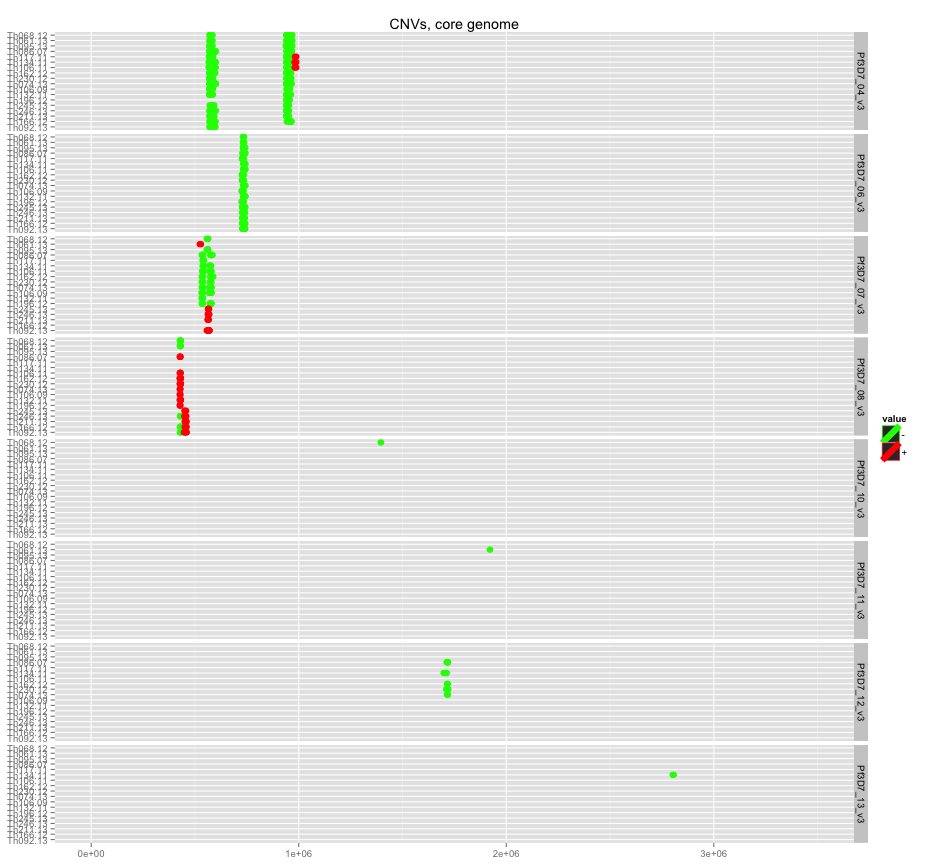
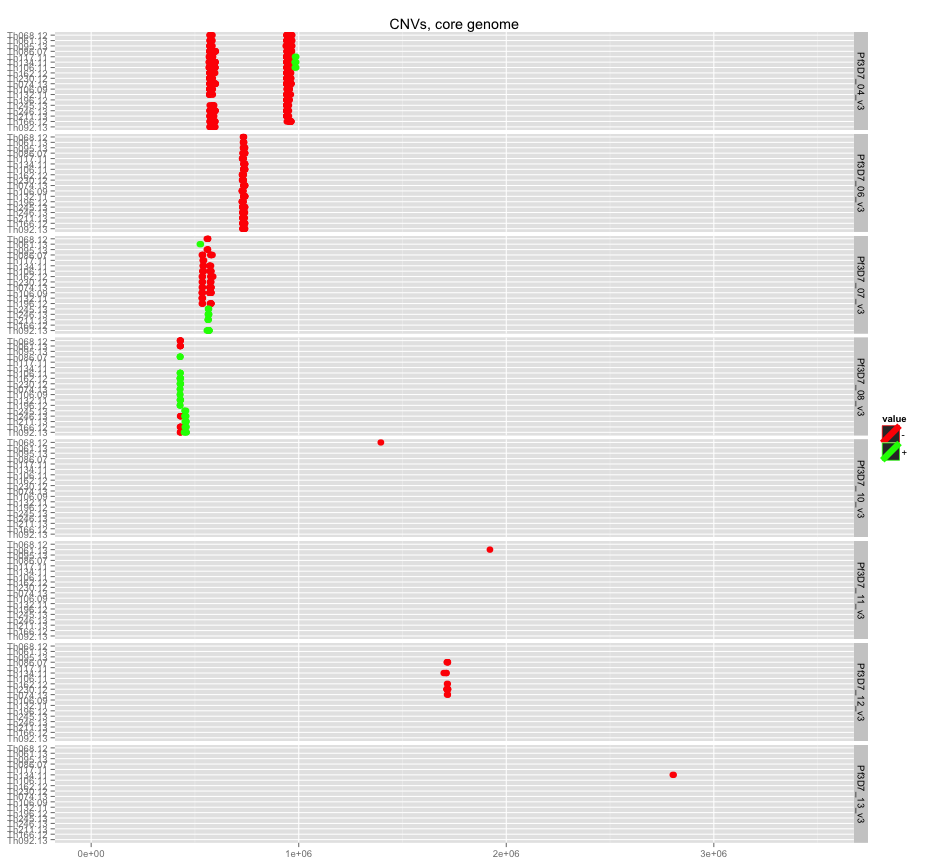
CNV results Thies

diff --git a/analyses/cnvs_Thies/plotCNVs.md b/analyses/cnvs_Thies/plotCNVs.md
@@ -77,11 +77,11 @@ cnvs_core$indv <- factor(cnvs_core$indv,levels=tree_order)
 
 ```r
 cols=c("red","green")
-names(cols)<-c("+","-")
+names(cols)<-c("-","+")
 colsc <- scale_color_manual(values = cols)
 
 dkcols=c("dark red","dark green")
-names(dkcols)<-c("+","-")
+names(dkcols)<-c("-","+")
 dkcolsc <- scale_color_manual(values = dkcols)
 ```
 
